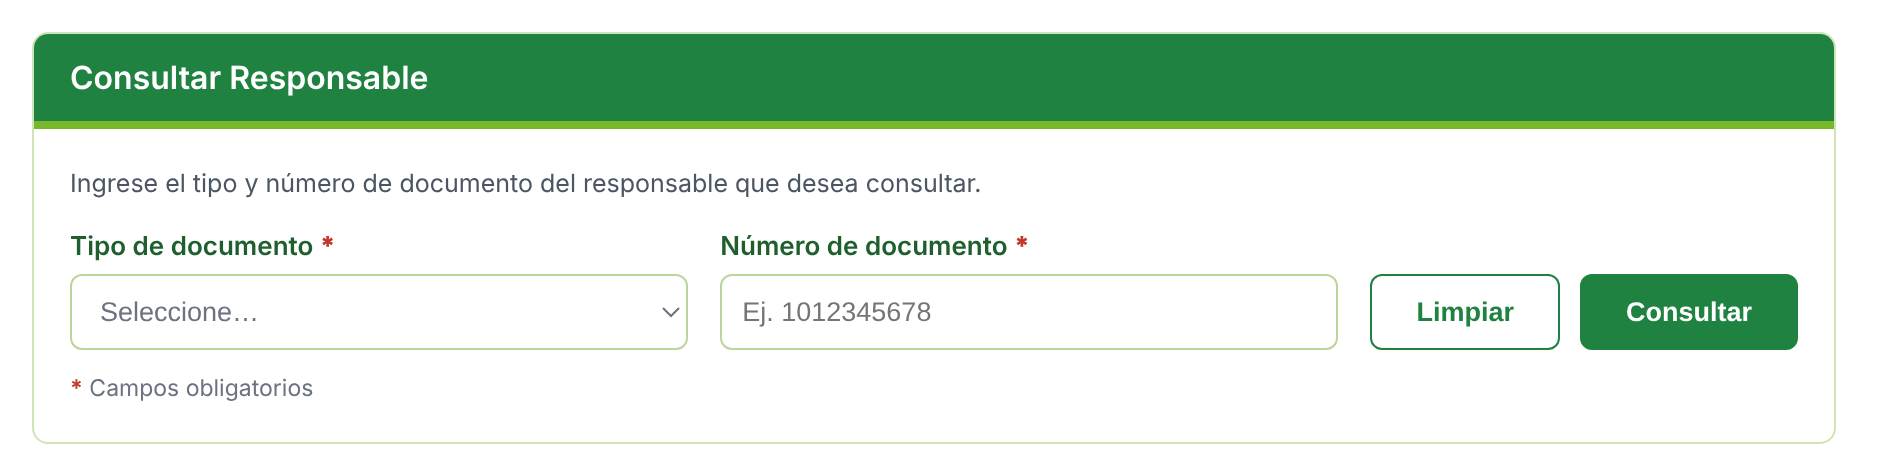
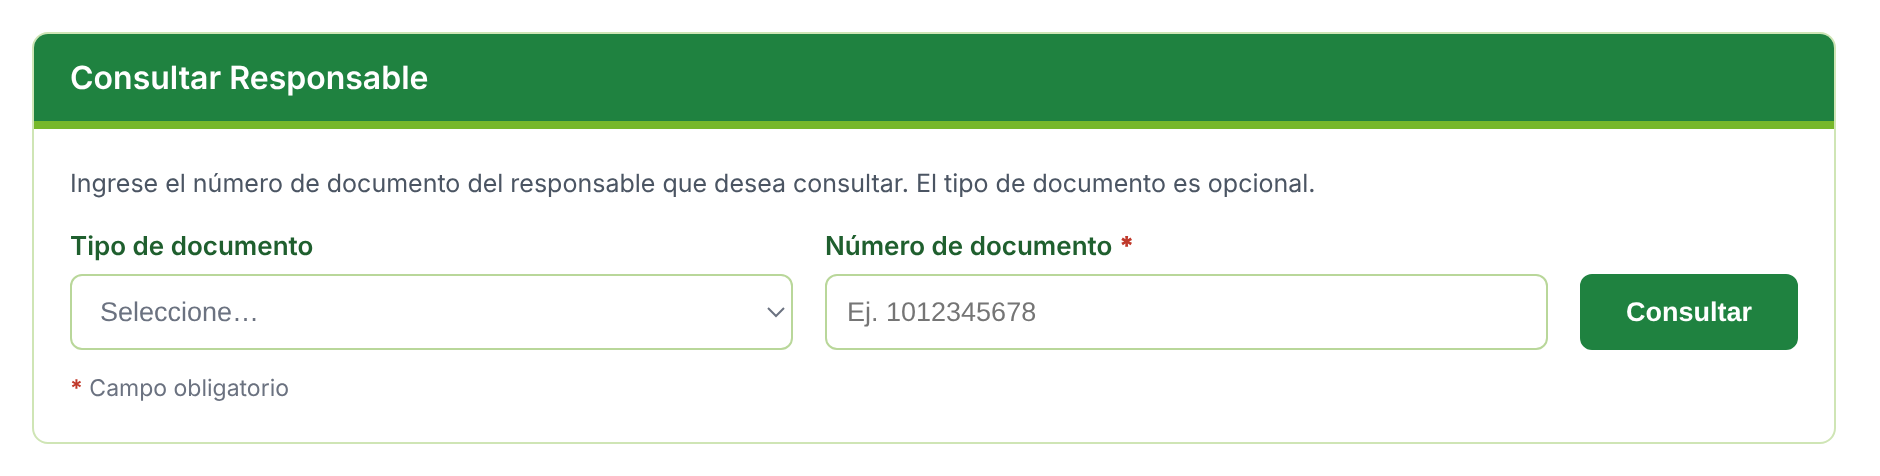
Ajustar consulta de Responsable: solo botón Consultar y número obligatorio
Claude-Session: https://claude.ai/code/session_01GmKT47FqdazgBMMYjAotBy

diff --git a/mockups/consulta_responsable.html b/mockups/consulta_responsable.html
@@ -14,11 +14,11 @@ select,input{box-sizing:border-box;height:38px;padding:0 10px;border:1px solid #
 .req{font-size:11.5px;color:#6b7280;margin-top:12px}
 </style></head><body><div class="card">
 <div class="hd">Consultar Responsable</div><div class="bd">
-<div class="note">Ingrese el tipo y número de documento del responsable que desea consultar.</div>
+<div class="note">Ingrese el número de documento del responsable que desea consultar. El tipo de documento es opcional.</div>
 <div class="row">
-<div class="f"><label>Tipo de documento <b>*</b></label><select><option>Seleccione…</option></select></div>
+<div class="f"><label>Tipo de documento</label><select><option>Seleccione…</option></select></div>
 <div class="f"><label>Número de documento <b>*</b></label><input placeholder="Ej. 1012345678"></div>
-<div class="btns"><button class="btn s">Limpiar</button><button class="btn p">Consultar</button></div>
+<div class="btns"><button class="btn p">Consultar</button></div>
 </div>
-<div class="req"><b style="color:#c0392b">*</b> Campos obligatorios</div>
+<div class="req"><b style="color:#c0392b">*</b> Campo obligatorio</div>
 </div></div></body></html>
